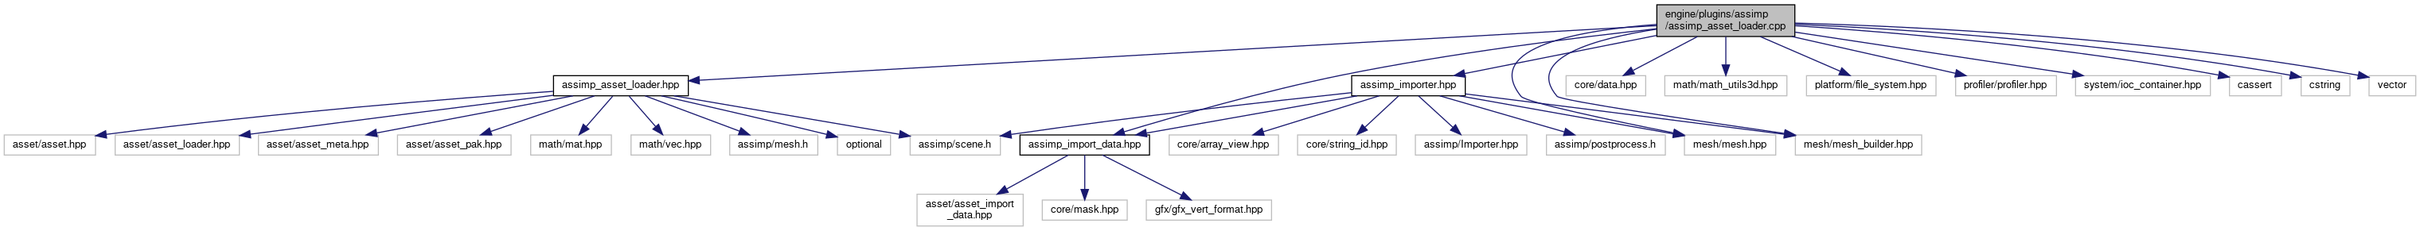
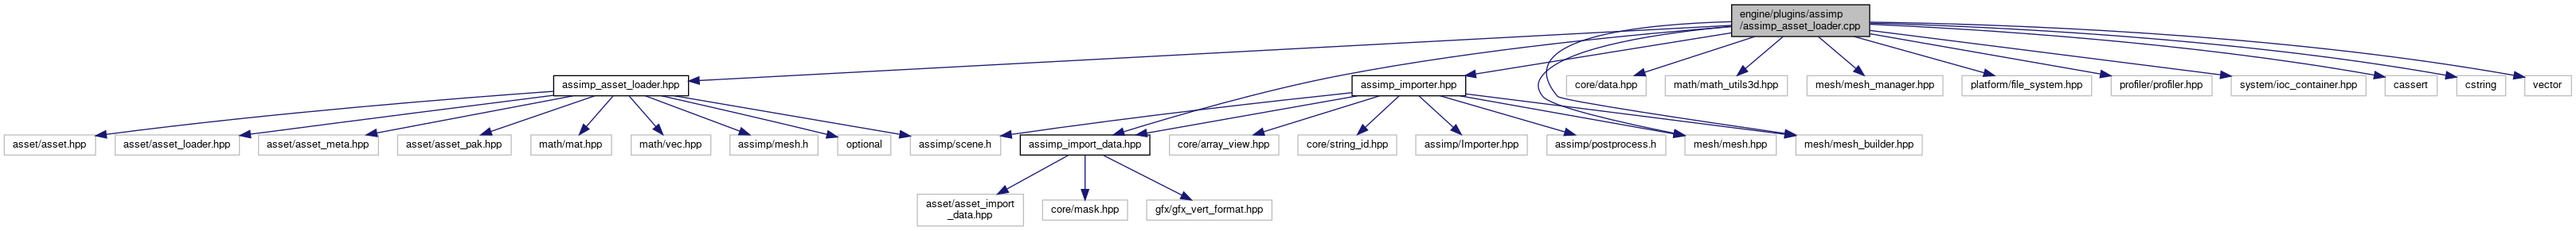
deploy: d033e356734bfcfe34b13dd89c6050d0a8d1d749

Changed region(s): [[0.0, 0.0, 1.0, 0.7423], [0.3438, 0.8041, 0.5312, 0.9588], [0.3438, 0.2165, 0.5, 0.3093]]

diff --git a/index.html b/index.html
@@ -68,16 +68,13 @@ $(function() {
 <div class="textblock"><p><a class="anchor" id="md_README"></a> <img src="https://github.com/EgorOrachyov/wmoge/raw/main/docs/media/wmoge-banner-trsp.png?raw=true&amp;sanitize=true" alt="logo" class="inline"/></p>
 <h1>Wmoge Engine</h1>
 <p><a href="https://github.com/EgorOrachyov/wmoge/actions/workflows/build.yml"><img src="https://github.com/EgorOrachyov/wmoge/actions/workflows/build.yml/badge.svg" alt="build" style="pointer-events: none;" class="inline"/></a> <a href="https://github.com/EgorOrachyov/wmoge/actions/workflows/clang-format.yml"><img src="https://github.com/EgorOrachyov/wmoge/actions/workflows/clang-format.yml/badge.svg" alt="clang format" style="pointer-events: none;" class="inline"/></a> <a href="https://github.com/EgorOrachyov/wmoge/actions/workflows/docs-cxx.yml"><img src="https://github.com/EgorOrachyov/wmoge/actions/workflows/docs-cxx.yml/badge.svg" alt="docs c/c++" style="pointer-events: none;" class="inline"/></a> <img src="https://img.shields.io/badge/language-C++17-_" alt="language" class="inline"/> <img src="https://img.shields.io/badge/license-MIT-_" alt="license" class="inline"/></p>
-<p>**"Write my own game engine (wmoge)"** is a modern high-performance 2d and 3d graphics game engine with Vulkan and OpenGL backends. The idea of the project is to implement a self-sufficient, small, but featured engine and a number of 2d and 3d games using it. Primary focus is the core architecture of the engine, reliability, clean and performant code. Currently, the work is focused on a minor refactoring, new runtime scene representation, building a high-level rendering system, refactoring audio, scripting systems, and bringing physics support. The engine is a personal learning/hobby project for educational purposes only.</p>
+<p>**"Write my own game engine (wmoge)"** is a modern high-performance 3d graphics game engine with Vulkan and OpenGL backends. The idea of the project is to implement a self-sufficient, small, but featured engine and a number of 2d and 3d games using it. Primary focus is the core architecture of the engine, reliability, clean and performant code. Currently, the work is focused on a minor refactoring, new runtime scene representation, building a high-level rendering system, refactoring audio, scripting systems, and bringing physics support. The engine is a personal learning/hobby project for educational purposes only.</p>
 <ul>
 <li><b>Project C/C++ and Python documentation:</b> <a href="https://egororachyov.github.io/wmoge">egororachyov.github.io/wmoge</a></li>
 <li><b>Current progress and task page:</b> <a href="https://github.com/EgorOrachyov/wmoge/issues">github.com/EgorOrachyov/wmoge/issues</a>.</li>
 <li><b>Contributing guide:</b> <a href="https://github.com/EgorOrachyov/wmoge/blob/main/CONTRIBUTING.md">github.com/EgorOrachyov/wmoge/blob/main/CONTRIBUTING.md</a></li>
 <li><b>Source code:</b> <a href="https://github.com/EgorOrachyov/wmoge">github.com/EgorOrachyov/wmoge</a></li>
 </ul>
-<p><img src="https://github.com/EgorOrachyov/wmoge/raw/main/docs/media/background.gif?raw=true&amp;sanitize=true" alt="gif" class="inline"/> </p><blockquote class="doxtable">
-<p>Work in progress, new features coming soon! This 2d demo is an old build! </p>
-</blockquote>
 <h2>About the engine</h2>
 <h3>Features</h3>
 <ul>
@@ -90,7 +87,9 @@ $(function() {
 <li>⚙ Command line and hook system to build custom tools.</li>
 <li>⚙ Simple stack-based config system.</li>
 <li>⚙ Dependency injection and IoC container system for global managers.</li>
-<li>🎥 Abstract graphics (gfx) device interface for GPU driver communication.</li>
+<li>🎥 Higl-level render dendency graph (RDG) for scheduling GPU rendering and compute work.</li>
+<li>🎥 Modern graphics (gfx) device interface for GPU driver communication.</li>
+<li>🎥 Explicit command list and resource bariers management in gfx api.</li>
 <li>🎥 Vulkan-based gfx device backend.</li>
 <li>🎥 (future) OpenGL-based gfx device backend.</li>
 <li>🎥 (future) DX12-based gfx device backend.</li>
@@ -109,7 +108,6 @@ $(function() {
 <li>🅰 Custom math library with 2d and 3d-space primitives.</li>
 <li>🅰 (future) SIMD utilities for fast vectorized math.</li>
 <li>🧱 Ecs-based scene model with fast, parallel and memory-friendly update.</li>
-<li>🧱 Tree-based object model for editor (offline) scene description.</li>
 <li>🎧 (in progress) OpenAL audio renderer for playing game sounds.</li>
 <li>📜 (in progress) Modern Lua scripting backend for game logic programming.</li>
 <li>🐞 Built-in CPU performance and tasking profiling with support to google trace exporting.</li>

diff --git a/assimp__asset__loader_8hpp_source.html b/assimp__asset__loader_8hpp_source.html
@@ -132,7 +132,7 @@ $(function() {
 <div class="ttc" id="aclasswmoge_1_1AssimpMeshAssetLoader_html"><div class="ttname"><a href="classwmoge_1_1AssimpMeshAssetLoader.html">wmoge::AssimpMeshAssetLoader</a></div><div class="ttdoc">Loader for a mesh data based on assimp library.</div><div class="ttdef"><b>Definition:</b> assimp_asset_loader.hpp:48</div></div>
 <div class="ttc" id="aclasswmoge_1_1AssimpMeshAssetLoader_html_a10a2d538fa8776301b94be8adc2e3964"><div class="ttname"><a href="classwmoge_1_1AssimpMeshAssetLoader.html#a10a2d538fa8776301b94be8adc2e3964">wmoge::AssimpMeshAssetLoader::~AssimpMeshAssetLoader</a></div><div class="ttdeci">~AssimpMeshAssetLoader() override=default</div></div>
 <div class="ttc" id="aclasswmoge_1_1AssimpMeshAssetLoader_html_a2dc9f864e1a7567f917e934af2acdf8c"><div class="ttname"><a href="classwmoge_1_1AssimpMeshAssetLoader.html#a2dc9f864e1a7567f917e934af2acdf8c">wmoge::AssimpMeshAssetLoader::AssimpMeshAssetLoader</a></div><div class="ttdeci">AssimpMeshAssetLoader()=default</div></div>
-<div class="ttc" id="aclasswmoge_1_1AssimpMeshAssetLoader_html_aafb89e1ae694ed1eee87ff4f0d537a7e"><div class="ttname"><a href="classwmoge_1_1AssimpMeshAssetLoader.html#aafb89e1ae694ed1eee87ff4f0d537a7e">wmoge::AssimpMeshAssetLoader::load</a></div><div class="ttdeci">Status load(const Strid &amp;name, const AssetMeta &amp;meta, Ref&lt; Asset &gt; &amp;asset) override</div><div class="ttdef"><b>Definition:</b> assimp_asset_loader.cpp:46</div></div>
+<div class="ttc" id="aclasswmoge_1_1AssimpMeshAssetLoader_html_aafb89e1ae694ed1eee87ff4f0d537a7e"><div class="ttname"><a href="classwmoge_1_1AssimpMeshAssetLoader.html#aafb89e1ae694ed1eee87ff4f0d537a7e">wmoge::AssimpMeshAssetLoader::load</a></div><div class="ttdeci">Status load(const Strid &amp;name, const AssetMeta &amp;meta, Ref&lt; Asset &gt; &amp;asset) override</div><div class="ttdef"><b>Definition:</b> assimp_asset_loader.cpp:47</div></div>
 <div class="ttc" id="aclasswmoge_1_1AssimpMeshAssetLoader_html_ac86a3bf76afa6fc807f0c82dae84c63b"><div class="ttname"><a href="classwmoge_1_1AssimpMeshAssetLoader.html#ac86a3bf76afa6fc807f0c82dae84c63b">wmoge::AssimpMeshAssetLoader::WG_RTTI_CLASS</a></div><div class="ttdeci">WG_RTTI_CLASS(AssimpMeshAssetLoader, AssetLoader)</div></div>
 <div class="ttc" id="anamespacewmoge_html"><div class="ttname"><a href="namespacewmoge.html">wmoge</a></div><div class="ttdef"><b>Definition:</b> _rtti.cpp:33</div></div>
 <div class="ttc" id="anamespacewmoge_html_a4c8845eaf9390a9232b778f4c38c5e12"><div class="ttname"><a href="namespacewmoge.html#a4c8845eaf9390a9232b778f4c38c5e12">wmoge::WG_RTTI_CLASS_BEGIN</a></div><div class="ttdeci">WG_RTTI_CLASS_BEGIN(AssimpMeshAssetLoader)</div><div class="ttdef"><b>Definition:</b> assimp_asset_loader.hpp:58</div></div>

diff --git a/assimp__asset__loader_8cpp.html b/assimp__asset__loader_8cpp.html
@@ -78,6 +78,7 @@ $(function() {
 <code>#include &quot;math/math_utils3d.hpp&quot;</code><br />
 <code>#include &quot;mesh/mesh.hpp&quot;</code><br />
 <code>#include &quot;mesh/mesh_builder.hpp&quot;</code><br />
+<code>#include &quot;mesh/mesh_manager.hpp&quot;</code><br />
 <code>#include &quot;platform/file_system.hpp&quot;</code><br />
 <code>#include &quot;profiler/profiler.hpp&quot;</code><br />
 <code>#include &quot;system/ioc_container.hpp&quot;</code><br />
@@ -89,7 +90,7 @@ Include dependency graph for assimp_asset_loader.cpp:</div>
 <div class="dyncontent">
 <div class="center"><img src="assimp__asset__loader_8cpp__incl.png" border="0" usemap="#aengine_2plugins_2assimp_2assimp__asset__loader_8cpp" alt=""/></div>
 <map name="aengine_2plugins_2assimp_2assimp__asset__loader_8cpp" id="aengine_2plugins_2assimp_2assimp__asset__loader_8cpp">
-<area shape="rect" title=" " alt="" coords="2081,5,2255,47"/>
+<area shape="rect" title=" " alt="" coords="2175,5,2348,47"/>
 <area shape="rect" href="assimp__asset__loader_8hpp.html" title=" " alt="" coords="695,95,865,121"/>
 <area shape="rect" href="assimp__import__data_8hpp.html" title=" " alt="" coords="1281,169,1444,196"/>
 <area shape="rect" href="assimp__importer_8hpp.html" title=" " alt="" coords="1698,95,1841,121"/>
@@ -97,12 +98,13 @@ Include dependency graph for assimp_asset_loader.cpp:</div>
 <area shape="rect" title=" " alt="" coords="2255,169,2414,196"/>
 <area shape="rect" title=" " alt="" coords="1967,95,2067,121"/>
 <area shape="rect" title=" " alt="" coords="2091,95,2245,121"/>
-<area shape="rect" title=" " alt="" coords="2269,95,2432,121"/>
-<area shape="rect" title=" " alt="" coords="2457,95,2583,121"/>
-<area shape="rect" title=" " alt="" coords="2607,95,2777,121"/>
-<area shape="rect" title=" " alt="" coords="2801,95,2866,121"/>
-<area shape="rect" title=" " alt="" coords="2891,95,2952,121"/>
-<area shape="rect" title=" " alt="" coords="2976,95,3035,121"/>
+<area shape="rect" title=" " alt="" coords="2269,95,2440,121"/>
+<area shape="rect" title=" " alt="" coords="2464,95,2627,121"/>
+<area shape="rect" title=" " alt="" coords="2651,95,2778,121"/>
+<area shape="rect" title=" " alt="" coords="2802,95,2971,121"/>
+<area shape="rect" title=" " alt="" coords="2995,95,3061,121"/>
+<area shape="rect" title=" " alt="" coords="3085,95,3147,121"/>
+<area shape="rect" title=" " alt="" coords="3171,95,3229,121"/>
 <area shape="rect" title=" " alt="" coords="5,169,120,196"/>
 <area shape="rect" title=" " alt="" coords="145,169,301,196"/>
 <area shape="rect" title=" " alt="" coords="325,169,475,196"/>
